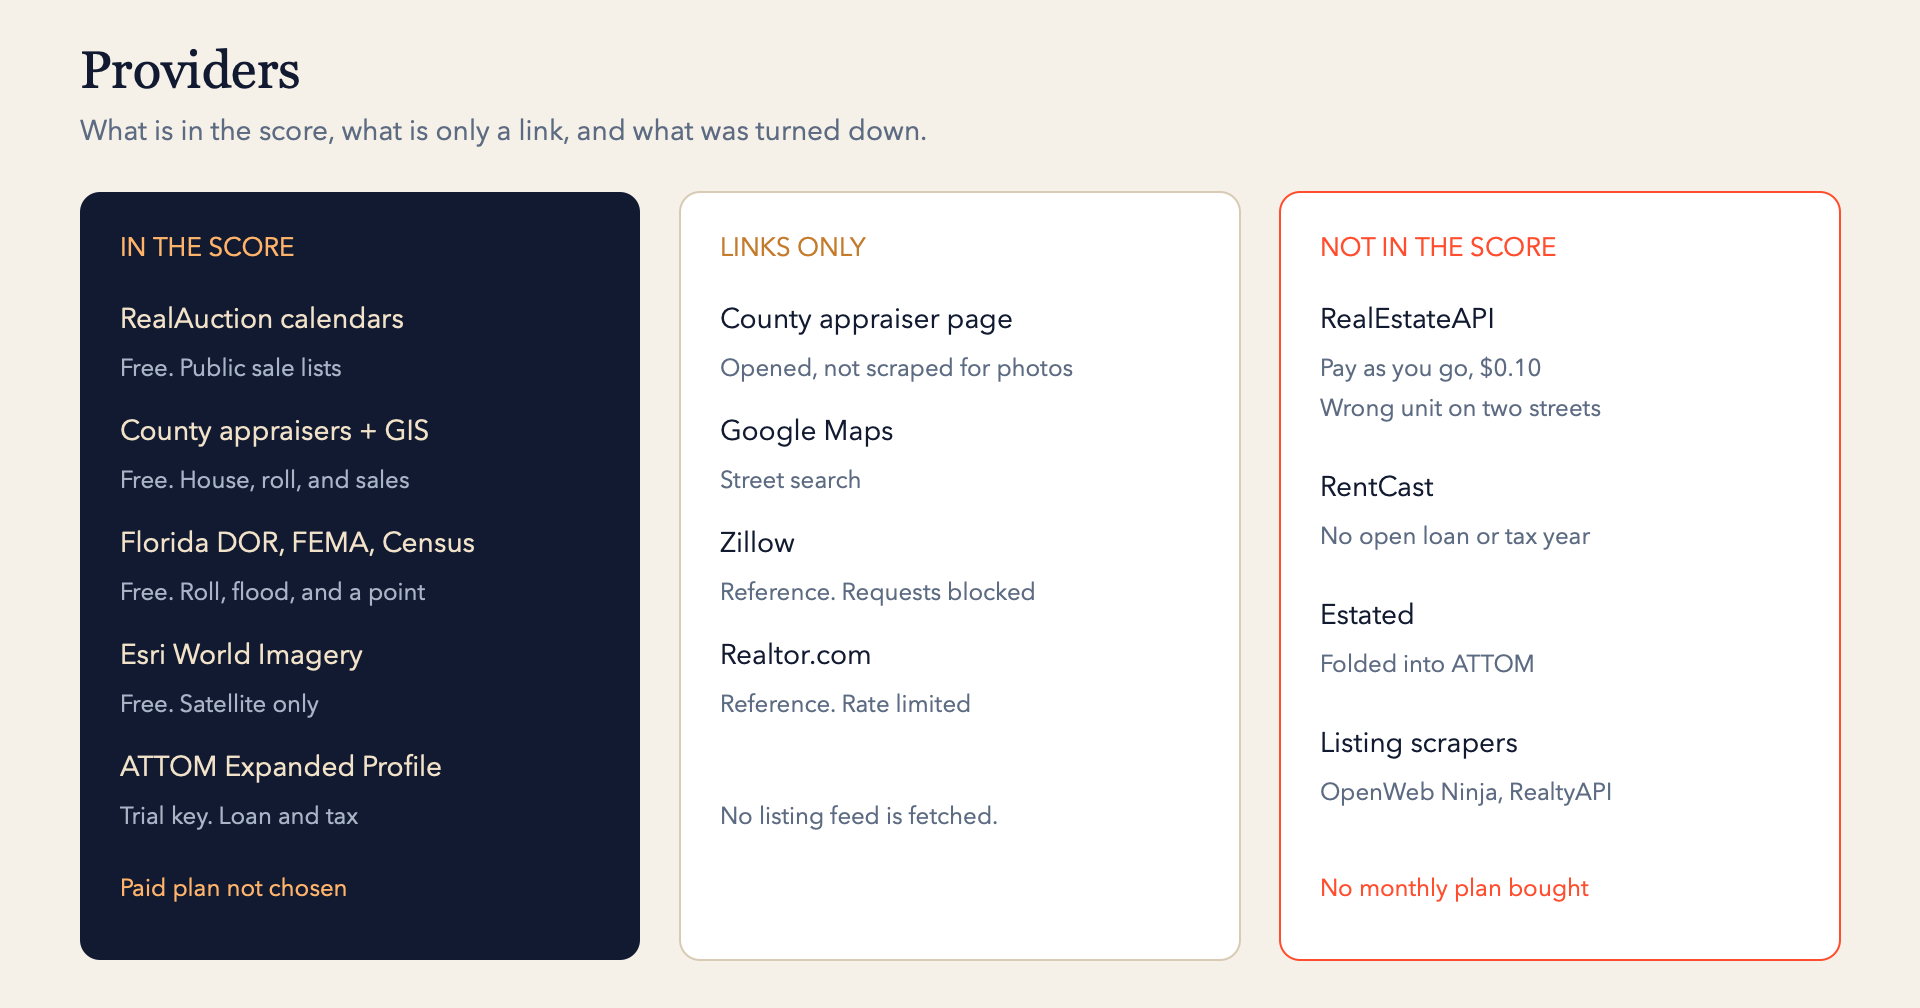
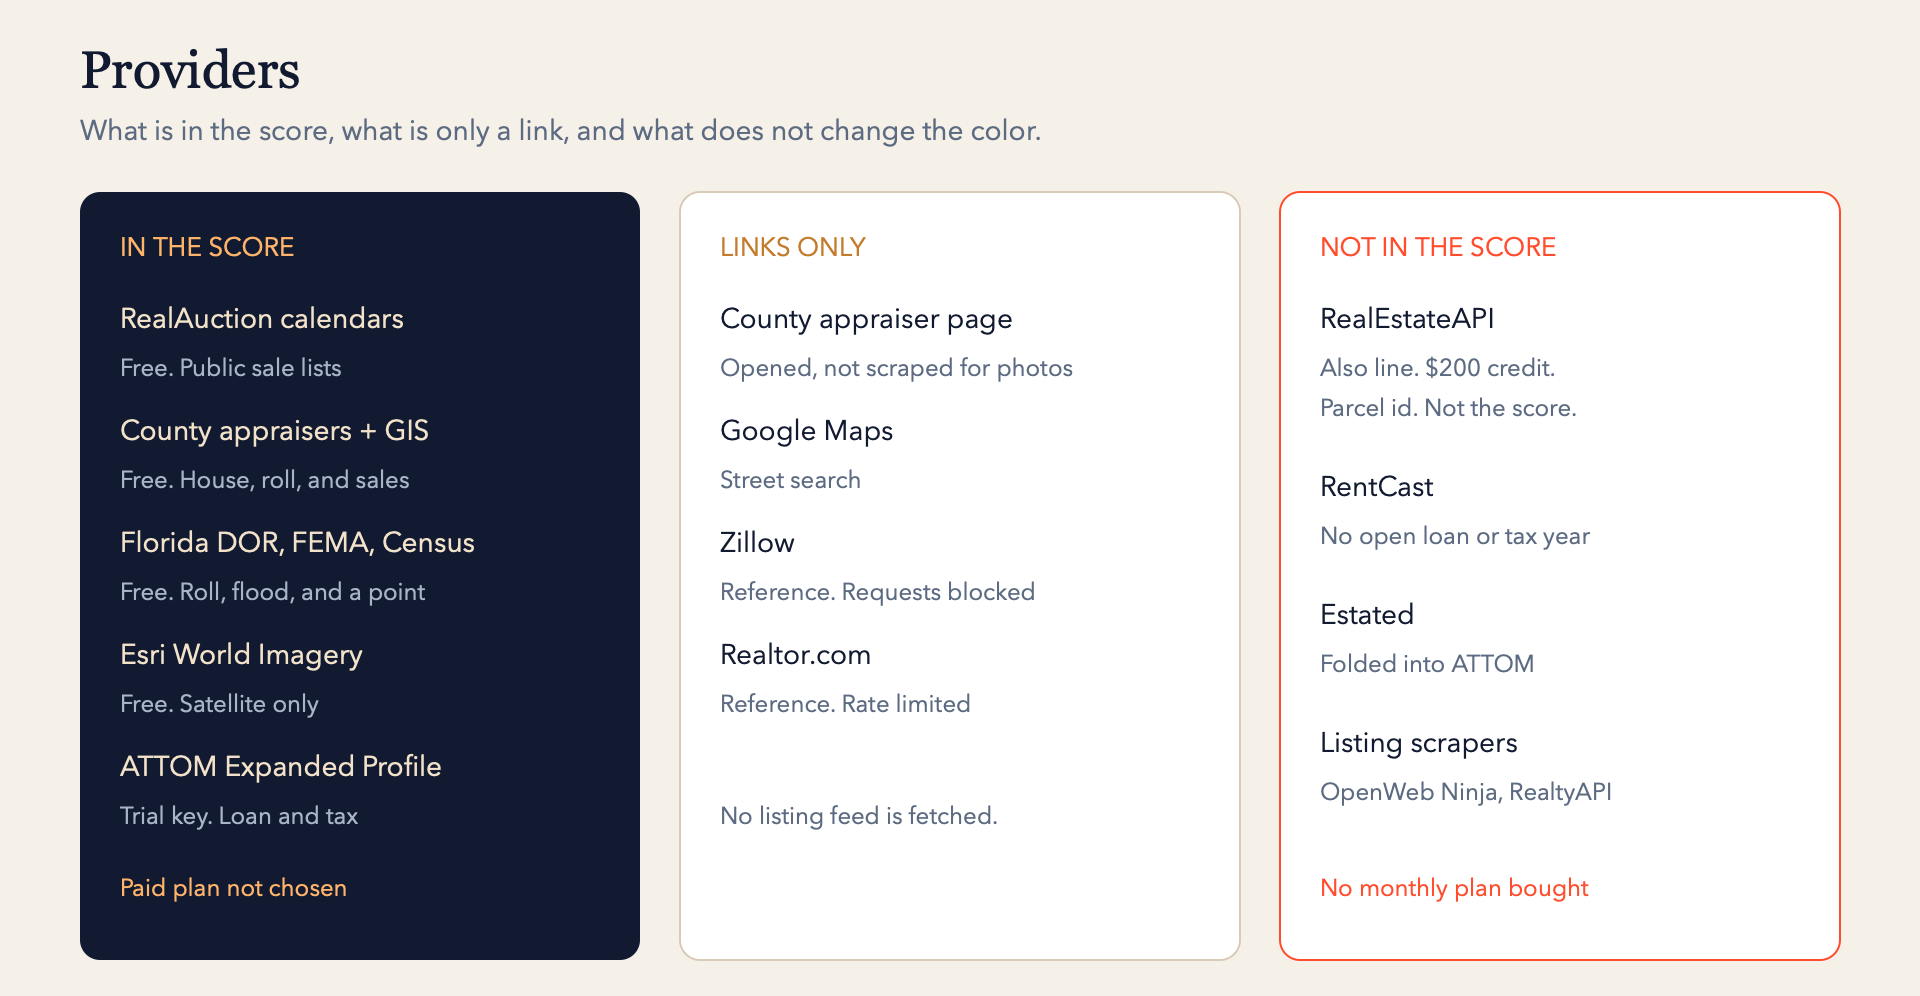
Record the RealEstateAPI Also line, and that it does not change the score.

diff --git a/docs/stack.md b/docs/stack.md
@@ -16,7 +16,7 @@ The Android app and the web desk both talk to one Python server. Cloudflare Acce
 | Host | Docker Compose project `hestia` on the Umbrel. Image `python:3.12-slim`. |
 | Edge | `cloudflare/cloudflared`, Compose profile `tunnel`, HTTP/2. Cloudflare Access on the hostname. |
 | Phone | Expo SDK 58, React Native 0.88, Expo Router. Package `com.hestia.trading`. |
-| Phone updates | EAS Update on the `production` channel. The installed APK is arm64. A native rebuild is only for a native module change. |
+| Phone updates | EAS Update on the `production` channel. Close the app and open it again to take one. The installed APK is [hestia-native.apk](https://hestia.trading/static/hestia-native.apk), arm64. A new APK is only for a native module change. |
 | Tests | `python3 -m unittest test_deals` |
 | Ship | `./deploy.sh` tests, syncs the app files, rebuilds the hestia container, and publishes an over-the-air update when `mobile/` changed. |
 
@@ -48,7 +48,7 @@ The score uses only factors a source actually answered. Each checked factor can 
 | Risky | Any flag, or a score of 3 or less. |
 | Not enough data | The house number disagrees across sources, resale has fewer than two sources, or fewer than four factors were checked. |
 
-On the sky map the bands are blue, green, yellow, red, and a hollow dot. Amber on the card marks danger, a tax line that starts with Delinquent, or a cause that is an HOA lien or more than one thing. A tax deed is not red just because the taxes are delinquent. That is why it is in the sale. An HOA case in county court is red. Delinquent taxes on a foreclosure, or a second loan on a foreclosure, are red.
+On the sky map the bands are blue, green, yellow, red, and a hollow dot. Amber on the card marks danger, a tax line that starts with Delinquent, or a cause that is an HOA lien or more than one thing. It also marks an Also line that disagrees with ATTOM, names a unit the sale list did not, or is a different door. A tax deed is not red just because the taxes are delinquent. That is why it is in the sale. An HOA case in county court is red. Delinquent taxes on a foreclosure, or a second loan on a foreclosure, are red.
 
 The cause is read from the auction type, the court in the case number, and the ATTOM tax line.
 
@@ -63,7 +63,20 @@ The cause is read from the auction type, the court in the case number, and the A
 
 County-court case numbers are the ones Hestia can see as COCE, CONO, COSO, COWE, or a county-court marker. Circuit numbers are CACE or a CA marker. An HOA suit filed in circuit court still reads as Mortgage until the docket is opened.
 
-The card, in order: Cause, Worth, Room, Danger, Still open, then Loan and Tax when ATTOM returned them. Worth is whether a sale since 2023 agrees with the roll. Room is how many times the roll covers the bid. Danger is the first flag, or "None on record." Still open is whatever no source answered, plus the court docket until it is checked, plus other liens until that search is done. The seven factors stay behind the card: resale value, comparables, title, code and building, flood, occupancy, and other liens.
+The card, in order: Cause, Worth, Room, Danger, Still open, then Loan and Tax when ATTOM returned them, then Also when a RealEstateAPI report is stored. Worth is whether a sale since 2023 agrees with the roll. Room is how many times the roll covers the bid. Danger is the first flag, or "None on record." Still open is whatever no source answered, plus the court docket until it is checked, plus other liens until that search is done. The seven factors stay behind the card: resale value, comparables, title, code and building, flood, occupancy, and other liens.
+
+Also is the second loan-and-tax report. It does not change the band. "Disagrees" means one side says a loan is open and the other does not, or one side says the tax is delinquent and the other does not. Two different dollar amounts can still sit on a line that does not say Disagrees. "Parcel record is …" means the county parcel id came back as a unit the auction list did not name. "Not this door" means the report is a different address. "No record for this address" means the lookup missed.
+
+On the 98 sales that were on the desk when this was pulled:
+
+| Also line | Deals |
+| --- | --- |
+| Same door, and the same yes or no on an open loan and on delinquency | 40 |
+| Disagrees on an open loan or on delinquency | 45 |
+| Parcel record is a unit the sale list did not name | 20 |
+| No record (12513 Stone Valley Loop) | 1 |
+
+Eight of those 20 unit records are also in the 45 disagreements, so the rows overlap. The pull used the county parcel id after street matches kept returning a unit. About 160 lookups, about $16 of the $200 credit. The balance left at the vendor was not read back. A rescore keeps the stored report and does not buy it again.
 
 ## Providers in the score
 

diff --git a/PRODUCT.md b/PRODUCT.md
@@ -29,7 +29,7 @@ Wholesaler CRMs start from leads someone already found. Auction desks stop at a 
 
 - Collect upcoming tax deed and foreclosure sales. Price is the opening bid, or the final judgment for foreclosures.
 - Score from 1 to 10 on seven factors: resale value, comparables, title, code and building, flood, occupancy, and other liens. A factor counts only after a source answers it. Excellent requires his own lien search, not just the ATTOM report.
-- The card is cause, worth, room, danger, and what is still open, plus the loan and the tax bill when ATTOM returned them. Cause separates taxes, an HOA lien, a mortgage, or more than one.
+- The card is cause, worth, room, danger, and what is still open, plus the loan and the tax bill when ATTOM returned them, plus an Also line from RealEstateAPI. Cause separates taxes, an HOA lien, a mortgage, or more than one. The Also line does not change the score.
 - Steps: Found, Researched, Title checked, Bid set, Won, Buyer assigned, Closed. Passed is a deal he dropped. Deals can also be added by hand.
 - The tax roll value is shown beside a deal, never as its estimated value.
 - Keep it light: Python standard library, one SQLite file, and no external font or script hosts. The container is capped at a quarter CPU and 128 MB. The phone app is Expo on Android and reads the same API.

diff --git a/FEATURES.md b/FEATURES.md
@@ -25,7 +25,7 @@ Each deal already pulls the auction list, both tax rolls, nearby sales, code cas
 - Danger: one line, or "none in the public records." An HOA case, an open code lien, a coastal flood zone, or a bid above the roll.
 - Still open: only the checks no source answered. Usually the docket, recorded liens, and taxes past the opening bid.
 
-The factor list stays behind the card. When an ATTOM key is on the Umbrel, the open-loan amount and the delinquent tax replace two of those "still open" lines. The court docket stays a manual check.
+The factor list stays behind the card. When an ATTOM key is on the Umbrel, the open-loan amount and the delinquent tax replace two of those "still open" lines. RealEstateAPI is a second Also line on that card and does not change the color. The court docket stays a manual check.
 
 Done when a deal can be judged from the card without opening the factor list.
 

diff --git a/README.md b/README.md
@@ -14,7 +14,7 @@ How the pieces fit, which providers are in the score, and which plans were not b
 
 1. Pull upcoming tax-deed and foreclosure lists for Broward, Miami-Dade, and Lee.
 2. Score each parcel from the county roll, nearby sales, code cases, flood, and an ATTOM loan and tax report.
-3. Show a card: cause, worth, room, danger, what is still open, the loan, and the tax bill.
+3. Show a card: cause, worth, room, danger, what is still open, the loan, the tax bill, and an Also line from RealEstateAPI. The score stays on ATTOM.
 4. Track the few deals that are pursued, from title check through a buyer.
 
 Collier tax deeds are in person and are not collected. The court docket is still a manual check. Listing sites are links, not data feeds.
